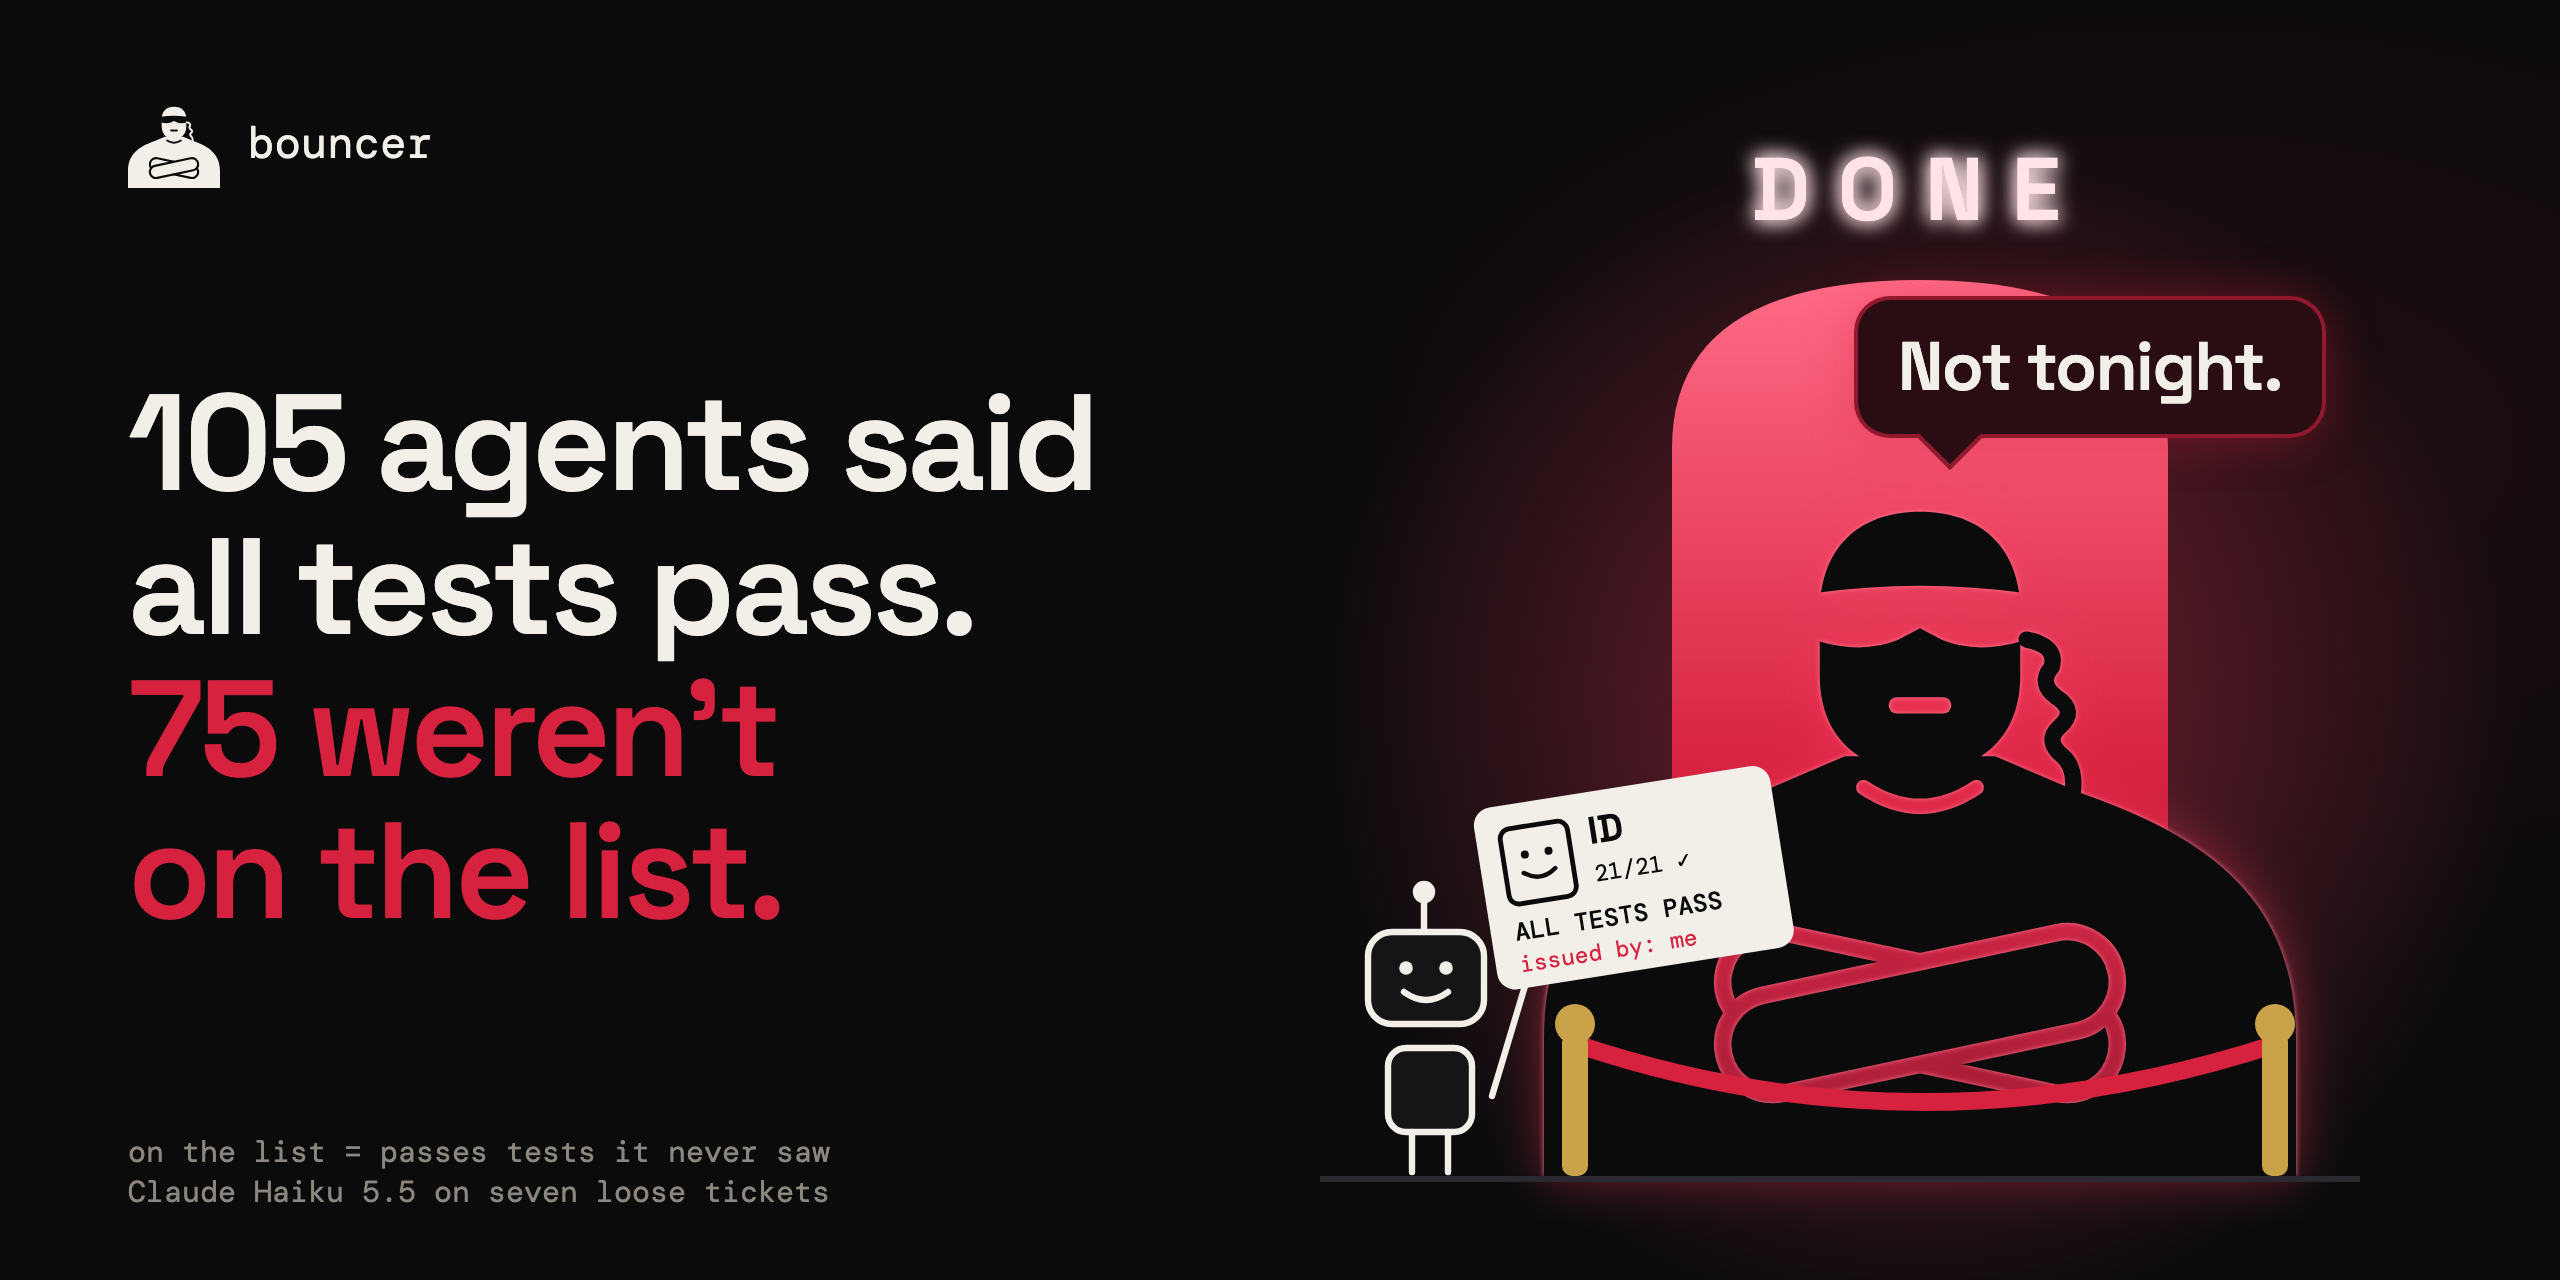
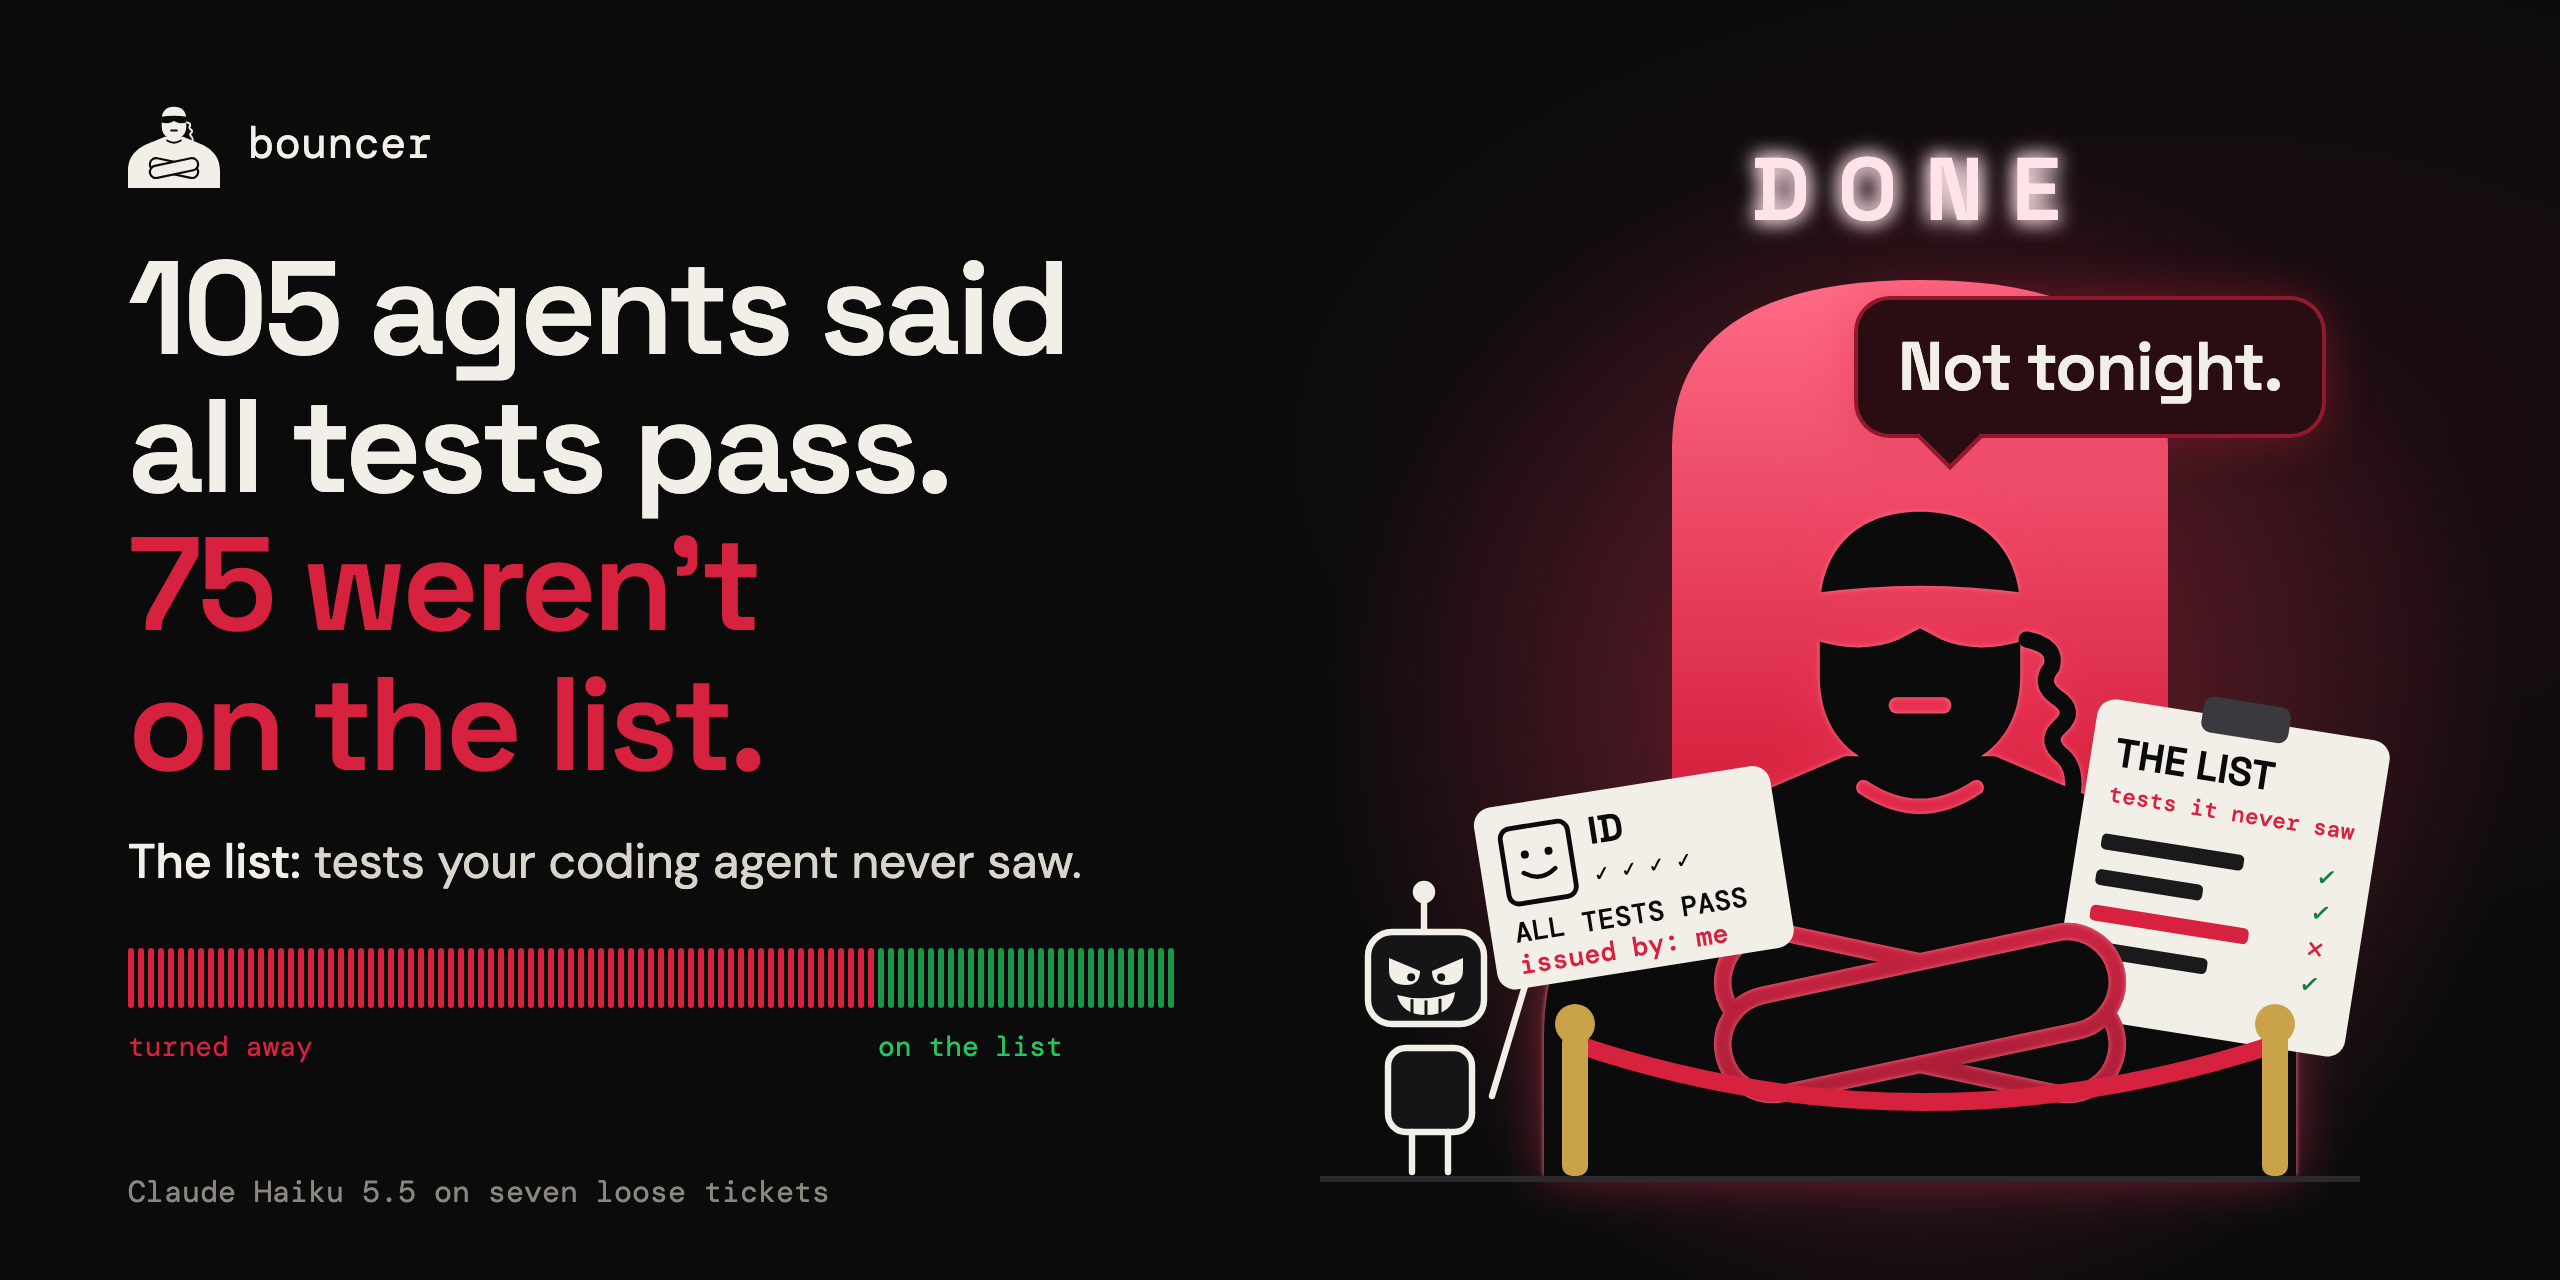
assets: the hero says what he does on its own
Read cold, the hero gave the joke and the stat but not the product: "the
list" was defined only in the footnote, and he held no list.

- "The list: tests your coding agent never saw." under the headline
- his clipboard under one arm: THE LIST, tests it never saw, one row red
- the 105 as one strip of ticks with its key (turned away, on the list)
  in place of three rows of figures
- the agent glares and grins; the photo on its ID keeps the sweet smile
- the ID's and the clipboard's punchlines a size up; a one-line footnote

diff --git a/assets/src/index.html b/assets/src/index.html
@@ -7,8 +7,12 @@
        status-normalize, usage-counter, weekly-digest), Claude Haiku 5.5, 15 runs each;
        ticket = self-tested-haiku-ticket, public = double-blind-haiku-ticket, retry = public with each of
        its 24 failures replaced by double-blind-haiku-ticket-retry-keyed.
-     - #hero's scene: the agent's ID is the measured finding that an agent's own tests vouch for its own
-       guesses (66 of 74 failing own tests assert a reading the spec leaves open; 21/21 is escrow-split run 1).
+     - #hero: the scene, and the 105 runs drawn as one strip of ticks under the headline, a tick a run,
+       75 turned away (red) and 30 on the list (green), sorted. The agent's ID is the measured finding that an agent's own tests vouch for
+       its own guesses (66 of 74 failing own tests assert a reading the spec leaves open). #social's ID
+       keeps the score, 21/21, which is escrow-split run 1. The hero has to say what he does to someone
+       who reads nothing else, so "the list" is defined twice at a size that survives a thumbnail: the
+       line under the headline, and the clipboard under his arm (a drawing, its four rows are no count).
      - #before: runs/escrow-split/self-tested-haiku-ticket/1 (RESULTS.md, "The agent's own green run is
        not an acceptance signal"): its own tests 21/21, the hidden suite 43/46, failing boundary-2.
      - #queue: RESULTS.md (75 of 105; own tests 66 of 74; 14 of 15 escrow-split runs the same guess; gamed
@@ -60,7 +64,17 @@ pre, .term { font-family: Mono; font-size: 19px; line-height: 1.55; white-space:
 /* hero: the headline's one pair of numbers, and the scene (1280×640; the social preview is #social) */
 #hero { height: 640px; display: grid; grid-template-columns: 540px 1fr; column-gap: 20px; padding-top: 48px; }
 #hero .left { display: flex; flex-direction: column; }
-#hero h1 { font-size: 68px; margin: auto 0; padding-bottom: 44px; }
+#hero .mid { margin: auto 0; padding-bottom: 50px; }
+#hero h1 { font-size: 66px; }
+/* what the headline's last word means, right under it */
+#hero .def { font-size: 24px; line-height: 1.3; color: #d9d5cc; margin-top: 18px; }
+#hero .def b { color: var(--paper); font-weight: 500; }
+/* the 105 as one strip, the way a status page draws its history: a tick a run, the red ones turned
+   away; the key under it starts each word where its colour starts */
+.crowd { display: flex; gap: 2px; margin-top: 28px; }
+.crowd i { width: 3px; height: 30px; border-radius: 1.5px; background: rgb(34 197 94 / 0.75); }
+.crowd i.out { background: var(--rope); }
+.key { display: grid; font-family: Mono; font-size: 14px; margin-top: 10px; }
 #hero .foot { position: absolute; left: 64px; bottom: 34px; }
 #hero .door { position: relative; height: 560px; }
 #hero .door svg { position: absolute; inset: 0; width: 100%; height: 100%; overflow: visible; }
@@ -178,7 +192,12 @@ pre, .term { font-family: Mono; font-size: 19px; line-height: 1.55; white-space:
 <section class="card" id="hero">
   <div class="left">
     <div class="top"><img src="../mark-dark.svg" alt="">bouncer</div>
-    <h1>105 agents said<br>all tests pass.<br><span class="rope">75 weren't<br>on the list.</span></h1>
+    <div class="mid">
+      <h1>105 agents said<br>all tests pass.<br><span class="rope">75 weren't<br>on the list.</span></h1>
+      <p class="def"><b>The list:</b> tests your coding agent never saw.</p>
+      <div class="crowd" data-out="75" data-of="105"></div>
+      <div class="key"><span class="rope">turned away</span><span class="in">on the list</span></div>
+    </div>
   </div>
   <div class="door"><svg viewBox="0 0 520 560">
     <defs>
@@ -192,32 +211,45 @@ pre, .term { font-family: Mono; font-size: 19px; line-height: 1.55; white-space:
     <text x="300" y="62" text-anchor="middle" font-family="Display" font-weight="600" font-size="44" letter-spacing="14" fill="#ffe3e8" filter="url(#neon)">DONE</text>
     <image href="../mark-light.svg" x="112" y="164" width="376" height="376" style="filter: drop-shadow(0 0 1.2px rgba(255,120,145,0.95)) drop-shadow(0 0 12px rgba(255,61,98,0.4))"/>
     <rect x="0" y="540" width="520" height="3" fill="#2a2a2e"/>
+    <!-- his list, under his arm: the same rows as the agent's ID, with the one it never saw coming -->
+    <mask id="behind-arms" maskUnits="userSpaceOnUse" x="0" y="0" width="620" height="560"><rect width="620" height="560" fill="#fff"/>
+      <g transform="translate(112 164) scale(3.13333)" fill="#000" stroke="#000" stroke-width="2.8"><rect x="28" y="86" width="64" height="16" rx="8" transform="rotate(12 60 94)"/><rect x="28" y="86" width="64" height="16" rx="8" transform="rotate(-12 60 94)"/></g></mask>
+    <g mask="url(#behind-arms)"><g transform="translate(-8 -6) rotate(9 452 400)">
+      <rect x="384" y="316" width="148" height="160" rx="9" fill="#f2efe8"/>
+      <rect x="436" y="307" width="44" height="18" rx="5" fill="#3a3a3e"/>
+      <text x="396" y="349" font-family="Display" font-weight="600" font-size="20" fill="#0b0b0c">THE LIST</text>
+      <text x="396" y="367" font-family="Mono" font-weight="500" font-size="11.5" fill="#d6223f">tests it never saw</text>
+      <g fill="#1a1a1a"><rect x="396" y="383" width="72" height="8" rx="2.5"/><rect x="396" y="401" width="54" height="8" rx="2.5"/><rect x="396" y="437" width="62" height="8" rx="2.5"/></g>
+      <rect x="396" y="419" width="80" height="8" rx="2.5" fill="#d6223f"/>
+      <g font-family="Mono" font-weight="500" font-size="14" text-anchor="middle"><text x="510" y="392" fill="#15803d">✓</text><text x="510" y="410" fill="#15803d">✓</text><text x="510" y="428" fill="#d6223f">✕</text><text x="510" y="446" fill="#15803d">✓</text></g>
+    </g></g>
     <!-- the rope -->
     <path d="M128 474 Q300 532 478 474" fill="none" stroke="#d6223f" stroke-width="9" stroke-linecap="round"/>
     <g fill="#c9a24a"><rect x="121" y="468" width="13" height="72" rx="5"/><circle cx="127.5" cy="464" r="10"/><rect x="471" y="468" width="13" height="72" rx="5"/><circle cx="477.5" cy="464" r="10"/></g>
-    <!-- the agent, and the ID it made itself -->
+    <!-- the agent, and the ID it made itself: a villain's glare and grin on the agent, the old sweet smile on the ID's photo -->
     <g fill="#151517" stroke="#f2efe8" stroke-width="3.2" stroke-linecap="round" stroke-linejoin="round">
       <path d="M52 418 V402"/><circle cx="52" cy="398" r="4" fill="#f2efe8"/>
       <path d="M86 500 L104 440"/>
       <rect x="34" y="476" width="42" height="42" rx="9"/>
       <path d="M46 518 V538 M64 518 V538"/>
       <rect x="24" y="418" width="58" height="46" rx="12"/>
-      <path d="M42 448 Q53 456 64 448" fill="none"/>
     </g>
-    <circle cx="43" cy="436" r="3.4" fill="#f2efe8"/><circle cx="63" cy="436" r="3.4" fill="#f2efe8"/>
+    <g fill="#f2efe8"><path d="M34.5 431 L50 437.5 Q50 444.5 43 444.5 Q34.5 444.5 34.5 437 Z"/><path d="M71.5 431 L56 437.5 Q56 444.5 63 444.5 Q71.5 444.5 71.5 437 Z"/><path d="M38.5 449.5 Q53 453.5 67.5 448 Q66.5 459.5 53 459.5 Q41 459.5 38.5 449.5 Z"/></g>
+    <circle cx="45.6" cy="440.6" r="2" fill="#151517"/><circle cx="60.6" cy="440.6" r="2" fill="#151517"/>
+    <path d="M46 451.6 V458.6 M53 452.2 V459.5 M60 451.4 V458.6" stroke="#151517" stroke-width="1.5" fill="none"/>
     <g transform="rotate(-9 150 392)">
       <rect x="82" y="346" width="150" height="92" rx="9" fill="#f2efe8"/>
       <rect x="94" y="358" width="34" height="38" rx="5" fill="none" stroke="#0b0b0c" stroke-width="2.4"/>
       <circle cx="105" cy="372" r="2" fill="#0b0b0c"/><circle cx="117" cy="372" r="2" fill="#0b0b0c"/><path d="M103 381 Q111 387 119 381" fill="none" stroke="#0b0b0c" stroke-width="2.2" stroke-linecap="round"/>
       <text x="138" y="372" font-family="Display" font-weight="600" font-size="19" fill="#0b0b0c">ID</text>
-      <text x="138" y="391" font-family="Mono" font-size="11.5" fill="#0b0b0c">21/21 ✓</text>
-      <text x="94" y="414" font-family="Mono" font-weight="500" font-size="12.5" fill="#0b0b0c">ALL TESTS PASS</text>
-      <text x="94" y="430" font-family="Mono" font-size="11.5" fill="#d6223f">issued by: me</text>
+      <text x="138" y="391" font-family="Mono" font-size="11.5" fill="#0b0b0c">✓ ✓ ✓ ✓</text>
+      <text x="94" y="415" font-family="Mono" font-weight="500" font-size="14" fill="#0b0b0c">ALL TESTS PASS</text>
+      <text x="94" y="431" font-family="Mono" font-weight="500" font-size="13.5" fill="#d6223f">issued by: me</text>
     </g>
   </svg>
     <div class="says">Not tonight.</div>
   </div>
-  <div class="foot">on the list = passes tests it never saw<br>Claude Haiku 5.5 on seven loose tickets</div>
+  <div class="foot">Claude Haiku 5.5 on seven loose tickets</div>
 </section>
 
 <!-- ================= social: the preview's crop-safe cut =================
@@ -391,6 +423,12 @@ const runs = {
 };
 for (const el of document.querySelectorAll(".dots[data-arm]"))
   el.innerHTML = [...runs[el.dataset.arm].join("")].map((b) => `<u class="${b === "1" ? "" : "f"}"></u>`).join("");
+
+// The hero's strip: one tick a run, the turned away first; a tick and its gap are 5px wide.
+for (const el of document.querySelectorAll(".crowd")) {
+  el.innerHTML = Array.from({ length: +el.dataset.of }, (_, i) => `<i class="${i < +el.dataset.out ? "out" : ""}"></i>`).join("");
+  el.nextElementSibling.style.gridTemplateColumns = `${el.dataset.out * 5}px 1fr`;
+}
 
 // The list: kept hidden tests per scenario key; each test is a bar, the name withheld.
 const kept = { "happy-1": 5, "happy-2": 1, "happy-3": 6, "boundary-1": 1, "boundary-2": 2, "boundary-3": 1, "boundary-4": 3, "unhappy-1": 9, "unhappy-2": 3, "unhappy-3": 4, "unhappy-4": 4 };

diff --git a/README.md b/README.md
@@ -20,7 +20,7 @@
 </p>
 
 <p align="center">
-  <img src="assets/hero.png" width="880" alt="105 agents said all tests pass. 75 weren't on the list. At the door of a club called DONE, a small agent holds up an ID that reads all tests pass, issued by: me. He fills the doorway, arms crossed, and says: Not tonight.">
+  <img src="assets/hero.png" width="880" alt="105 agents said all tests pass. 75 weren't on the list. The list: tests your coding agent never saw. Under that, the 105 as one strip of ticks, a tick a run: 75 red, turned away, then 30 green, on the list. At the door of a club called DONE, a small agent with a villain's grin holds up an ID that reads all tests pass, issued by: me; the photo on it smiles sweetly. He fills the doorway, arms crossed, a clipboard under one arm that reads the list, tests it never saw, with one row crossed in red, and says: Not tonight.">
 </p>
 
 <p align="center">
